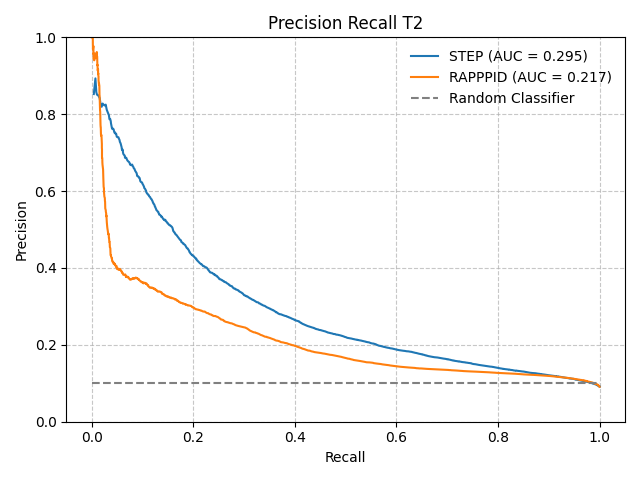
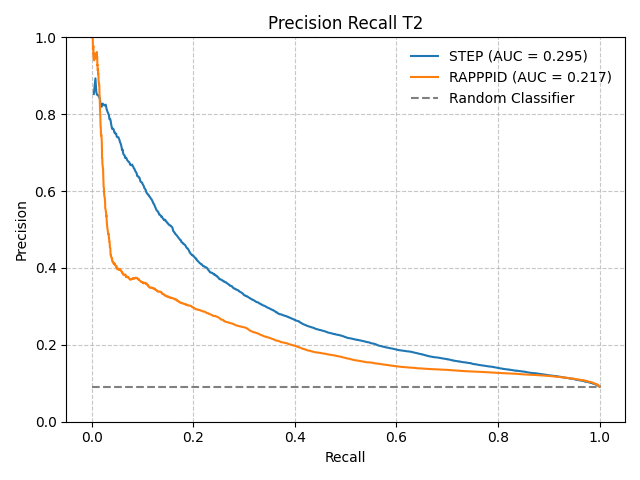
add table with metrics to report

Changed region(s): [[0.125, 0.7812, 0.9375, 0.8125]]

diff --git a/experiments/create_combined_report.py b/experiments/create_combined_report.py
@@ -1,7 +1,7 @@
 import os
 import pandas as pd
 import matplotlib.pyplot as plt
-
+from pandas.plotting import table
 
 def save_precision_recall_curves(precision_recall_dict, dataloader_idx):
     fig, ax = plt.subplots()
@@ -12,9 +12,9 @@ def save_precision_recall_curves(precision_recall_dict, dataloader_idx):
         ax.plot(df['Recall'], df['Precision'], label=f"{key} (AUC = {auc:.3f})")
     
     if dataloader_idx == 0:
-        dataset_balance = 0.5
+        dataset_balance = 0.5 # TODO: dont hardcode this
     elif dataloader_idx == 1:
-        dataset_balance = 0.1 #TODO
+        dataset_balance = 0.0909 # TODO: dont hardcode this
 
     ax.plot([0, 1], [dataset_balance, dataset_balance], linestyle='--', color='gray', label='Random Classifier')
 
@@ -48,6 +48,26 @@ def save_roc_curves(precision_recall_dict, dataloader_idx):
     plt.tight_layout()
     plt.savefig(f'./combined_reports/roc_curves_T{dataloader_idx+1}')
 
+def save_metric_table(df, dataloader_idx):
+    fig, ax = plt.subplots(figsize=(8, 4))  # Adjust the size as needed
+
+    # Hide the axis
+    ax.xaxis.set_visible(False) 
+    ax.yaxis.set_visible(False) 
+    ax.set_frame_on(False)
+
+    # Add the row names (index) as a column in the table
+    df_with_index = df.reset_index()
+
+    # Create a table
+    tbl = table(ax, df_with_index, loc='center', cellLoc='center', colWidths=[0.2]*len(df_with_index.columns))
+
+    # Style the table (optional)
+    tbl.auto_set_font_size(False)
+    tbl.set_fontsize(12)
+    tbl.scale(1.2, 1.2)  # Scale table size (optional)
+    plt.savefig(f'./combined_reports/metrics_T{dataloader_idx+1}.png', bbox_inches='tight', pad_inches=0.1, dpi=300)
+
 def main():
     current_directory = os.getcwd()
 
@@ -59,6 +79,23 @@ def main():
     roc_T1_dict = {}
     roc_T2_dict = {}
 
+    metric_data_T1 = {}
+    metric_data_T2 = {}
+
+    metric_index = [
+        'accuracy',
+        'auprc',
+        'auroc',
+        'f1',
+        'false_negatives',
+        'false_positives',
+        'precision',
+        'recall',
+        'true_negatives',
+        'true_positives',
+        'weighted_f1'
+    ]
+
     for model in os.listdir(current_directory):
         item_path = os.path.join(current_directory, model)
         if not os.path.isdir(item_path):
@@ -68,6 +105,9 @@ def main():
             continue
 
         metrics = pd.read_csv(f'./{model}/reports/human/metrics.csv')
+        metric_data_T1[model] = [round(metrics[f'{metric}_T1'].item(), 3) for metric in metric_index]
+        metric_data_T2[model] = [round(metrics[f'{metric}_T2'].item(), 3) for metric in metric_index]
+
         pr_T1_dict[model] = {
             'df': pd.read_csv(f'./{model}/reports/human/precision_recall_curve_data_T1.csv'),
             'auc': metrics['auprc_T1'].item()
@@ -84,6 +124,15 @@ def main():
             'df': pd.read_csv(f'./{model}/reports/human/roc_curve_data_T2.csv'),
             'auc': metrics['auroc_T2'].item()
         }
+
+    save_metric_table(
+        pd.DataFrame(metric_data_T1, index=metric_index),
+        0
+    )
+    save_metric_table(
+        pd.DataFrame(metric_data_T2, index=metric_index),
+        1
+    )
 
     save_precision_recall_curves(pr_T1_dict, 0)
     save_precision_recall_curves(pr_T2_dict, 1)
